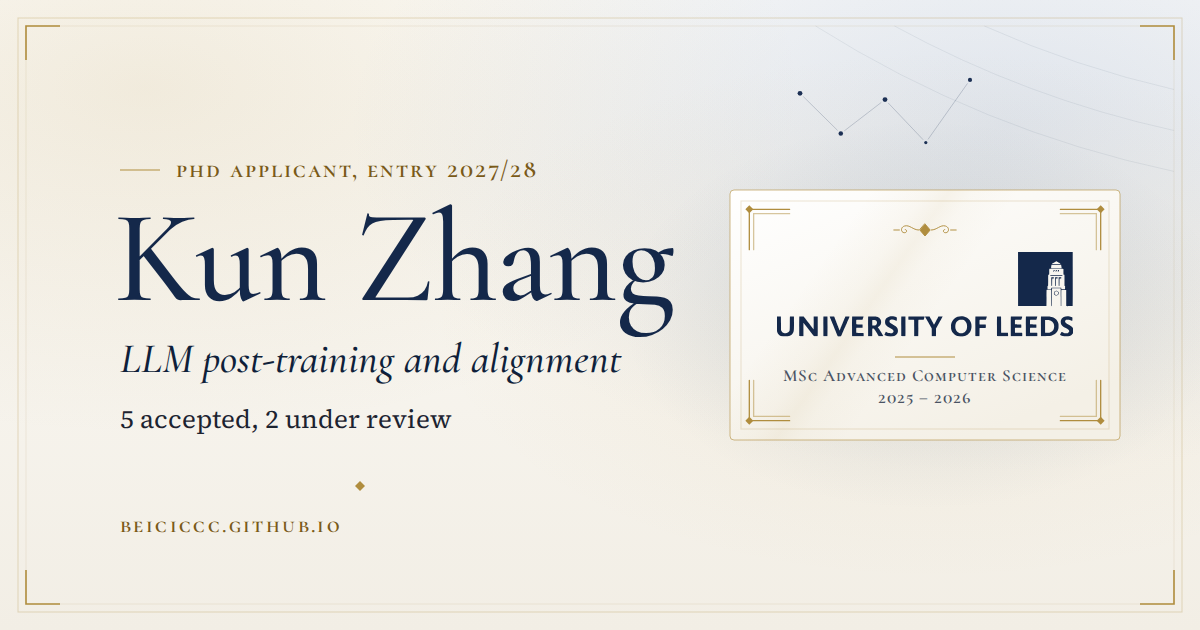
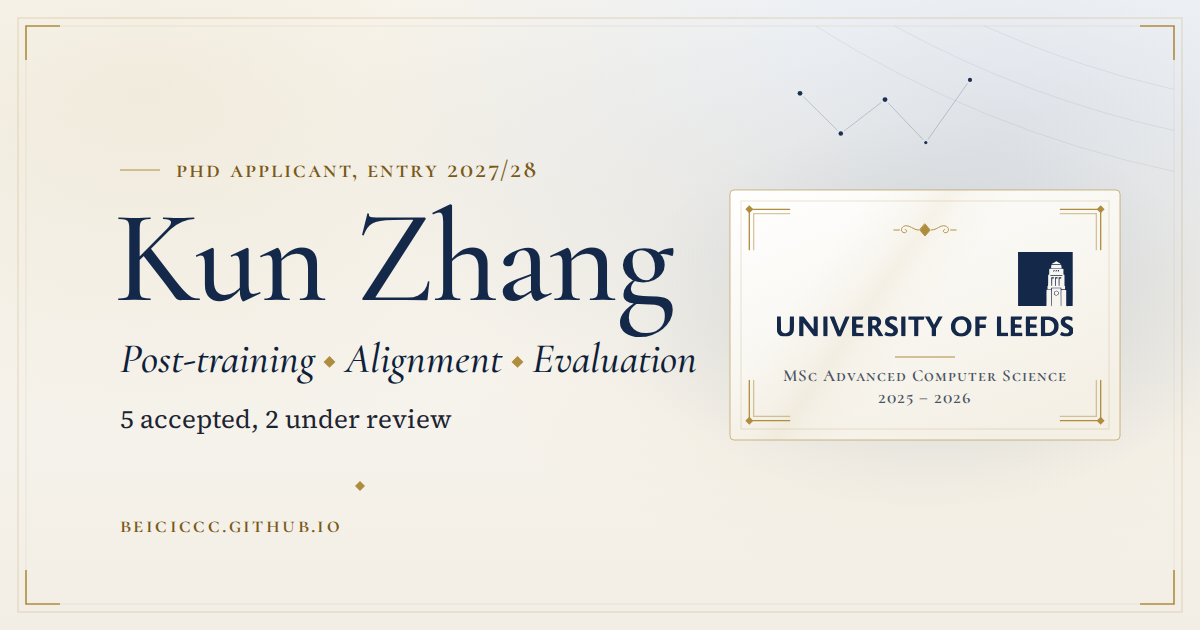
扉页只写研究方向：Post-training · Alignment · Evaluation
- 去掉 “on the attribution side…” 那句长标语，改为三个方向词，金色菱形分隔（中文：后训练 · 对齐 · 评测）
- kicker 第二行原本重复同样三个方向，改为只保留“PhD applicant, entry 2027/28”
- 站点描述、标题、分享图文字与替代文本同步为“后训练、对齐与评测”，不再出现“归因侧”

Claude-Session: https://claude.ai/code/session_01SRhe9pLuU7i4VoH6JwGMse

Changed region(s): [[0.0925, 0.5429, 0.5858, 0.6032]]

diff --git a/version1/src/styles/global.css b/version1/src/styles/global.css
@@ -993,19 +993,33 @@ html:not(.js) .scroll-progress { display: none; }
   background-clip: text;
   -webkit-text-fill-color: transparent;
 }
+/* The research directions: three terms in display italic, set off by
+   small gilt diamonds. */
 .hero__tw { display: inline-block; }
 .hero__tagline {
+  display: flex;
+  flex-wrap: wrap;
+  align-items: center;
+  column-gap: 0.55em;
+  row-gap: 0.1em;
   font-family: var(--font-display);
-  font-size: clamp(1.3rem, 1rem + 0.95vw, 1.72rem);
+  font-style: italic;
+  font-size: clamp(1.55rem, 1.1rem + 1.25vw, 2.2rem);
   font-weight: 500;
-  line-height: 1.28;
+  line-height: 1.2;
   letter-spacing: -0.004em;
-  color: var(--night-strong);
-  max-width: 34rem;
-  margin: 0 0 18px;
-  text-wrap: pretty;
+  color: var(--navy);
+  margin: 0 0 20px;
 }
-.hero__tagline em { font-style: italic; }
+.hero__term { white-space: nowrap; }
+.hero__sep {
+  width: 0.2em;
+  height: 0.2em;
+  min-width: 5px;
+  min-height: 5px;
+  background: var(--gold);
+  transform: rotate(45deg);
+}
 .hero__intro {
   font-size: var(--step-0);
   line-height: 1.65;
@@ -2287,8 +2301,7 @@ html:not(.js) .to-top { display: none; }
 :lang(zh) h1, :lang(zh) h2, :lang(zh) h3, :lang(zh) h4 { letter-spacing: 0.02em; line-height: 1.3; }
 :lang(zh) .hero__name { letter-spacing: 0.08em; line-height: 1.1; font-weight: 600; }
 :lang(zh) .hero__name::after { left: 0.08em; }
-:lang(zh) .hero__tagline { font-style: normal; font-family: var(--font-serif-cjk); font-weight: 500; font-size: clamp(1.2rem, 0.95rem + 0.9vw, 1.55rem); line-height: 1.6; max-width: 22em; letter-spacing: 0.02em; }
-:lang(zh) .hero__tagline em { font-style: normal; }
+:lang(zh) .hero__tagline { font-style: normal; font-family: var(--font-serif-cjk); font-weight: 600; font-size: clamp(1.4rem, 1rem + 1.1vw, 1.9rem); line-height: 1.4; letter-spacing: 0.12em; column-gap: 0.7em; }
 :lang(zh) .hero__intro { line-height: 1.85; }
 :lang(zh) .hero__role { letter-spacing: 0.1em; font-size: 0.92rem; }
 :lang(zh) .hero__fields { letter-spacing: 0.04em; font-size: 0.98rem; }
@@ -2404,7 +2417,7 @@ html:not(.js) .to-top { display: none; }
   .hero__kicker { margin-bottom: 16px; }
   .hero__kicker-rule { width: 28px; }
   .hero__name { margin-bottom: 26px; }
-  .hero__tagline { font-size: 1.3rem; margin-bottom: 16px; }
+  .hero__tagline { font-size: 1.45rem; margin-bottom: 16px; }
   .hero__intro { font-size: 0.97rem; margin-bottom: 22px; }
   .stat { padding: 16px 10px 18px; }
   .stat + .stat::before { top: 16px; bottom: 18px; }
@@ -2574,16 +2587,17 @@ html:not(.js) .to-top { display: none; }
   .rise { animation: rise .8s var(--ease-out) backwards; animation-delay: calc(var(--d, 0) * 110ms + 100ms); }
 
   /* Title page, legible in reading order within about 1.6s: the name
-     letter by letter, then one band of light across it; the tagline word
-     by word; a gilt rule under the name. */
+     letter by letter, then one band of light across it; the directions
+     term by term; a gilt rule under the name. */
   .hero__ch {
     animation: letter-in .8s var(--ease-out) backwards, name-sheen 1.6s var(--ease) 1 backwards;
     animation-delay: calc(var(--c, 0) * 45ms + 150ms), calc(1.3s + var(--c, 0) * 40ms);
   }
   .hero__tw {
     animation: word-in .55s var(--ease-out) backwards;
-    animation-delay: calc(var(--w, 0) * 12ms + 450ms);
+    animation-delay: calc(var(--w, 0) * 70ms + 450ms);
   }
+  .hero__sep { animation-name: fade; }
   .hero__kicker-rule { transform-origin: 100% 50%; animation: grow-x .6s var(--ease-out) backwards; }
   .hero__name::after { animation: grow-x .9s var(--ease-out) 1s backwards; }
   .hero__aurora { will-change: transform; animation: aurora 60s ease-in-out infinite alternate; }
@@ -2806,6 +2820,7 @@ html[data-motion="still"] [data-scroll-lit] .lw { opacity: 1; }
   .hero__name { font-size: 26pt; filter: none; margin-bottom: 6pt; }
   .foil, .stat__num, .notfound .section-mark, .hero__ch { background: none; -webkit-text-fill-color: #000; color: #000; }
   .hero__tagline { font-size: 13pt; color: #000; }
+  .hero__sep { transform: rotate(45deg) !important; background: #000; }
   .hero__stats { margin-top: 10pt; border-top: 1px solid #999; }
   .hero__stats::before { display: none; }
   .stat { padding: 6pt 4pt; }
